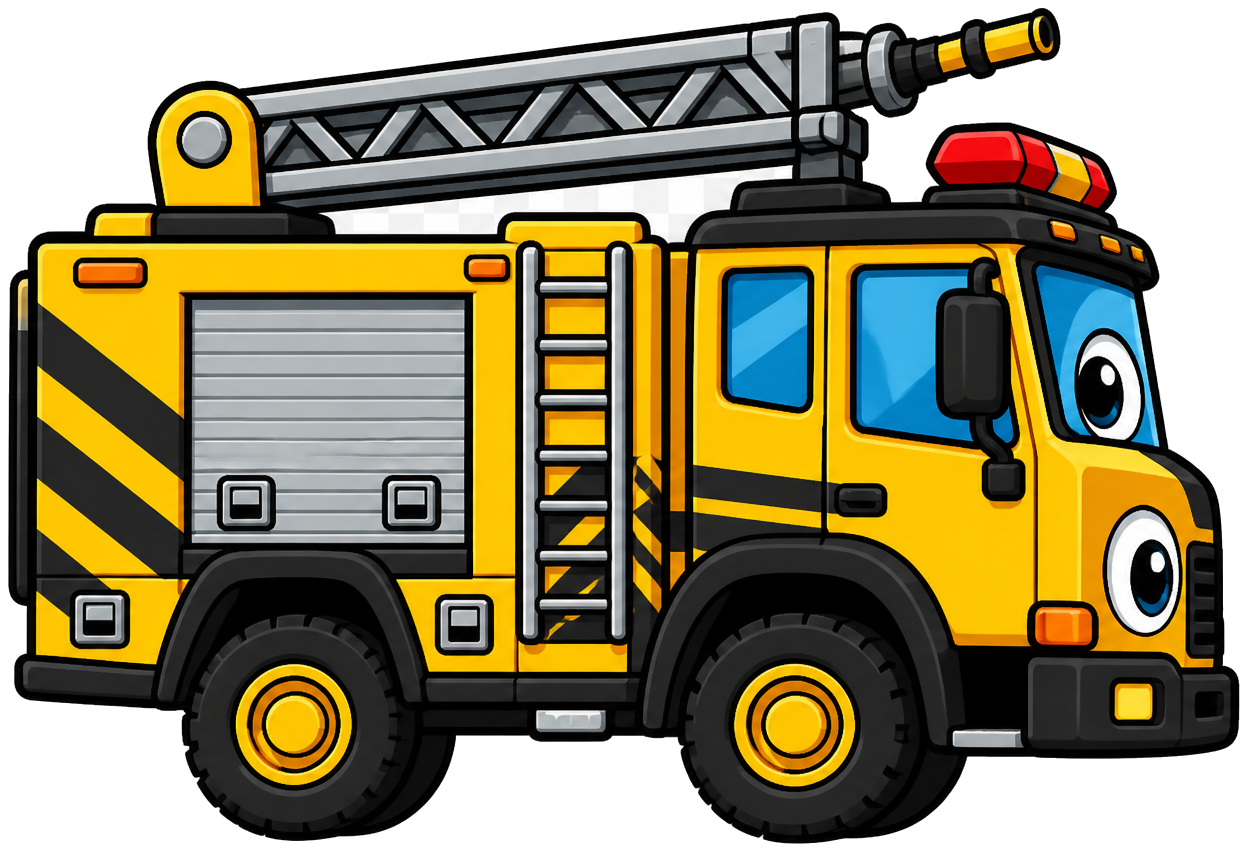
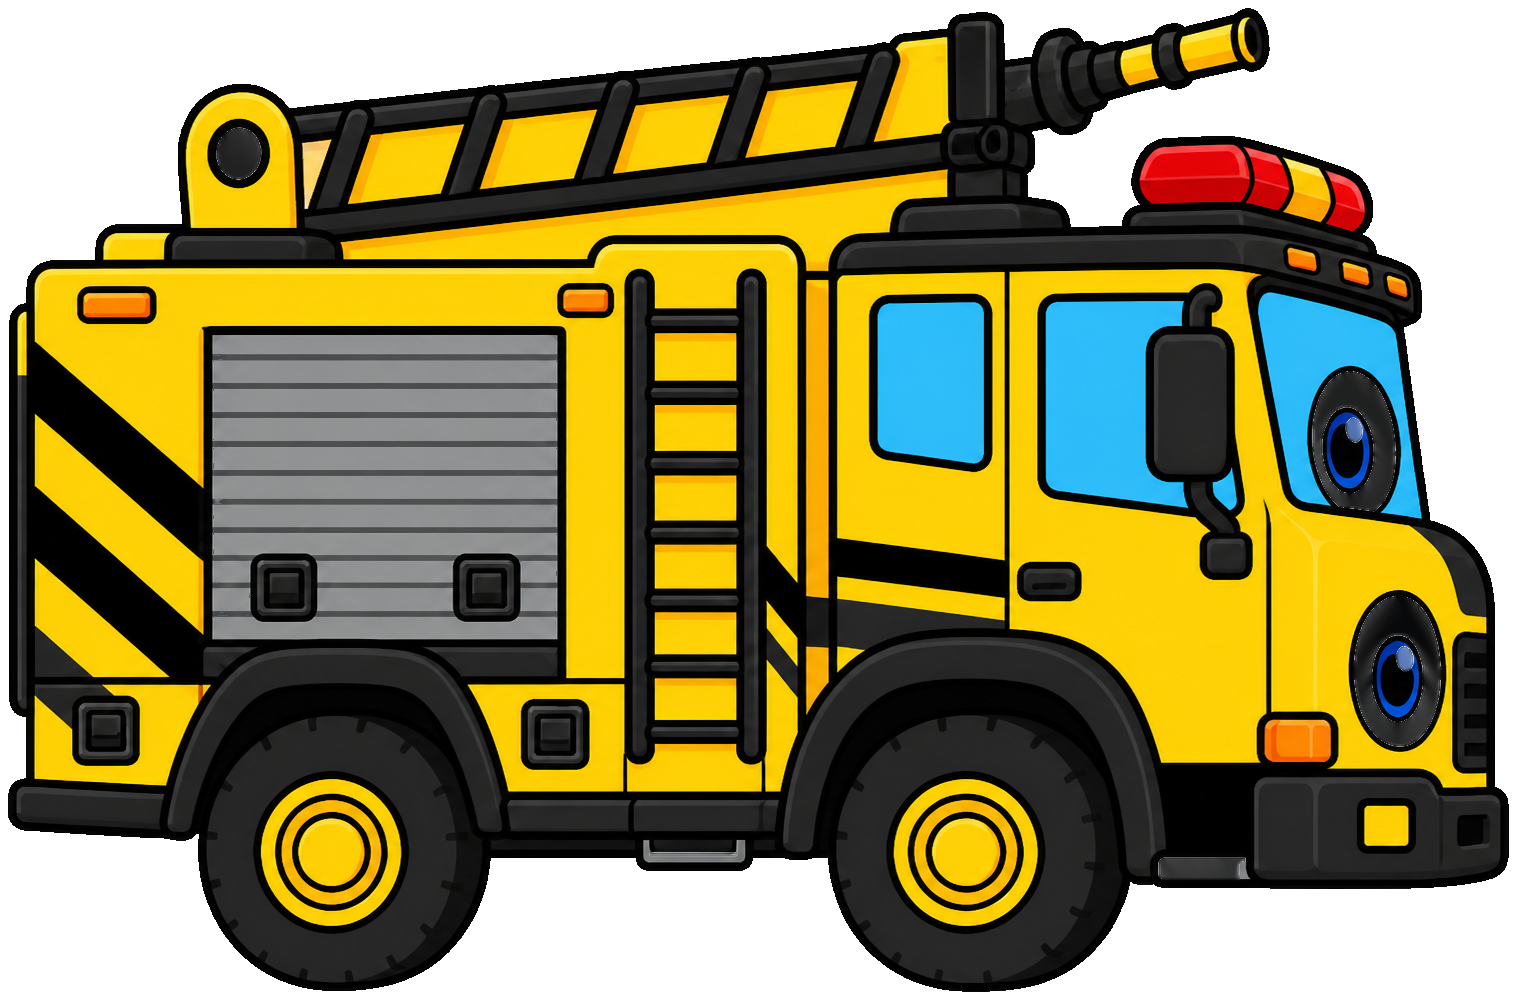
Fix Bolt auto opacity and smooth the walk cycle.
Regenerate the vehicle with solid windows and four consistent walk frames, and raise walk frame rate with less texture thrashing on idle↔walk.

diff --git a/src/game/BachbrueckeScene.ts b/src/game/BachbrueckeScene.ts
@@ -176,7 +176,8 @@ export class BachbrueckeScene extends Phaser.Scene {
       this.anims.create({
         key: art.walkAnim,
         frames: art.walkFrames.map((key) => ({ key })),
-        frameRate: 3,
+        // ~8 fps: readable comic walk without stuttering between frames
+        frameRate: 8,
         repeat: -1,
       });
     }
@@ -658,33 +659,34 @@ export class BachbrueckeScene extends Phaser.Scene {
     const art = MECH_ART[this.character];
     if (look !== "mech") {
       if (this.player.anims.isPlaying) this.player.anims.stop();
-      if (this.player.texture.key !== art.autoKey) {
-        this.player.setTexture(art.autoKey);
-        this.player.setDisplaySize(AUTO_SIZE.w, AUTO_SIZE.h);
-        this.player.setOrigin(0.5, 1);
-        this.baseScale = { x: this.player.scaleX, y: this.player.scaleY };
-        this.syncPlayerBody();
-      }
+      this.ensurePlayerTexture(art.autoKey, AUTO_SIZE.w, AUTO_SIZE.h);
       return;
     }
     if (pose === "walk") {
-      if (this.player.anims.currentAnim?.key !== art.walkAnim || !this.player.anims.isPlaying) {
+      const alreadyWalking =
+        this.player.anims.isPlaying && this.player.anims.currentAnim?.key === art.walkAnim;
+      if (!alreadyWalking) {
+        // Size once before play so frame swaps keep a stable display box.
+        this.ensurePlayerTexture(art.walkFrames[0]!, MECH_SIZE.w, MECH_SIZE.h);
         this.player.play(art.walkAnim, true);
-        this.player.setDisplaySize(MECH_SIZE.w, MECH_SIZE.h);
-        this.player.setOrigin(0.5, 1);
-        this.baseScale = { x: this.player.scaleX, y: this.player.scaleY };
-        this.syncPlayerBody();
       }
       return;
     }
     if (this.player.anims.isPlaying) this.player.anims.stop();
-    if (this.player.texture.key !== art.mechKey) {
-      this.player.setTexture(art.mechKey);
-      this.player.setDisplaySize(MECH_SIZE.w, MECH_SIZE.h);
-      this.player.setOrigin(0.5, 1);
-      this.baseScale = { x: this.player.scaleX, y: this.player.scaleY };
-      this.syncPlayerBody();
-    }
+    this.ensurePlayerTexture(art.mechKey, MECH_SIZE.w, MECH_SIZE.h);
+  }
+
+  /** Apply texture + display size only when they change (avoids idle↔walk jitter). */
+  private ensurePlayerTexture(key: string, w: number, h: number): void {
+    const sameTex = this.player.texture.key === key;
+    const sameSize =
+      Math.round(this.player.displayWidth) === w && Math.round(this.player.displayHeight) === h;
+    if (sameTex && sameSize) return;
+    this.player.setTexture(key);
+    this.player.setDisplaySize(w, h);
+    this.player.setOrigin(0.5, 1);
+    this.baseScale = { x: this.player.scaleX, y: this.player.scaleY };
+    this.syncPlayerBody();
   }
 
   private playJump(): void {

diff --git a/docs/plans/mech-anim/S01-bolt-auto-walk.md b/docs/plans/mech-anim/S01-bolt-auto-walk.md
@@ -1,0 +1,34 @@
+# Slice: S01 — Bolt Auto solide + Walk
+
+**Parent:** `docs/plans/mech-anim/INDEX.md`  
+**Hängt ab von:** —
+
+## Feature
+
+Bolt-Auto lässt keinen Himmel durch Fenster/Leiter scheinen. Walk-Cycle wirkt ruhiger und ohne Löcher in den Schwarzflächen.
+
+## In diesem Schritt
+
+- `bolt_vehicle_side.png` neu (opak Fenster/Aufbau, Alpha nur aussen)
+- `bolt_mech_walk_01`…`04.png` neu (konsistente Canvas, solide Cel-Füllungen)
+- Walk-Timing / Idle↔Walk ohne Zucken in der Szene
+
+## Nicht (andere Feature-Schritte)
+
+- Marina/Rush Sprites
+- Kletter-/Schwing-Animationen
+
+## Art
+
+- ja — **nur** diese Dateien (`comic-rettung-art`):
+  - `public/art/bolt_vehicle_side.png`
+  - `public/art/bolt_mech_walk_01.png`
+  - `public/art/bolt_mech_walk_02.png`
+  - `public/art/bolt_mech_walk_03.png`
+  - `public/art/bolt_mech_walk_04.png`
+- Bei `ja`: Hintergründe überall transparent (`process_art_alpha.py` + `verify_art_alpha.py` Exit 0)
+
+## Testplan
+
+- Automatisiert: `verify_art_alpha.py` Exit 0; bestehende Suite grün
+- Manuell: Bolt Auto und Walk im Level ohne durchscheinenden Himmel

diff --git a/docs/plans/mech-anim/INDEX.md b/docs/plans/mech-anim/INDEX.md
@@ -1,0 +1,18 @@
+# Slices: mech-anim
+
+**Status:** Erledigt  
+**Aufgabe:** Bolt-Auto ohne Innen-Transparenz; Walk-Animation sauberer  
+**Datum:** 2026-09-04  
+**Zuschnitt:** ein Slice (Art + kleine Anim-Politur)  
+**Pfad:** Fast-Path
+
+## Reihenfolge
+
+| ID | Datei | Feature | Hängt ab von | Status |
+|----|-------|---------|----------------|--------|
+| S01 | `S01-bolt-auto-walk.md` | Bolt Auto solide + Walk-Frames + Anim-Politur | — | erledigt |
+
+## Nicht in dieser Aufgabe
+
+- Marina/Rush Art
+- Schreibtabelle, Seil, Gras-Deko, Mathe-Compare
